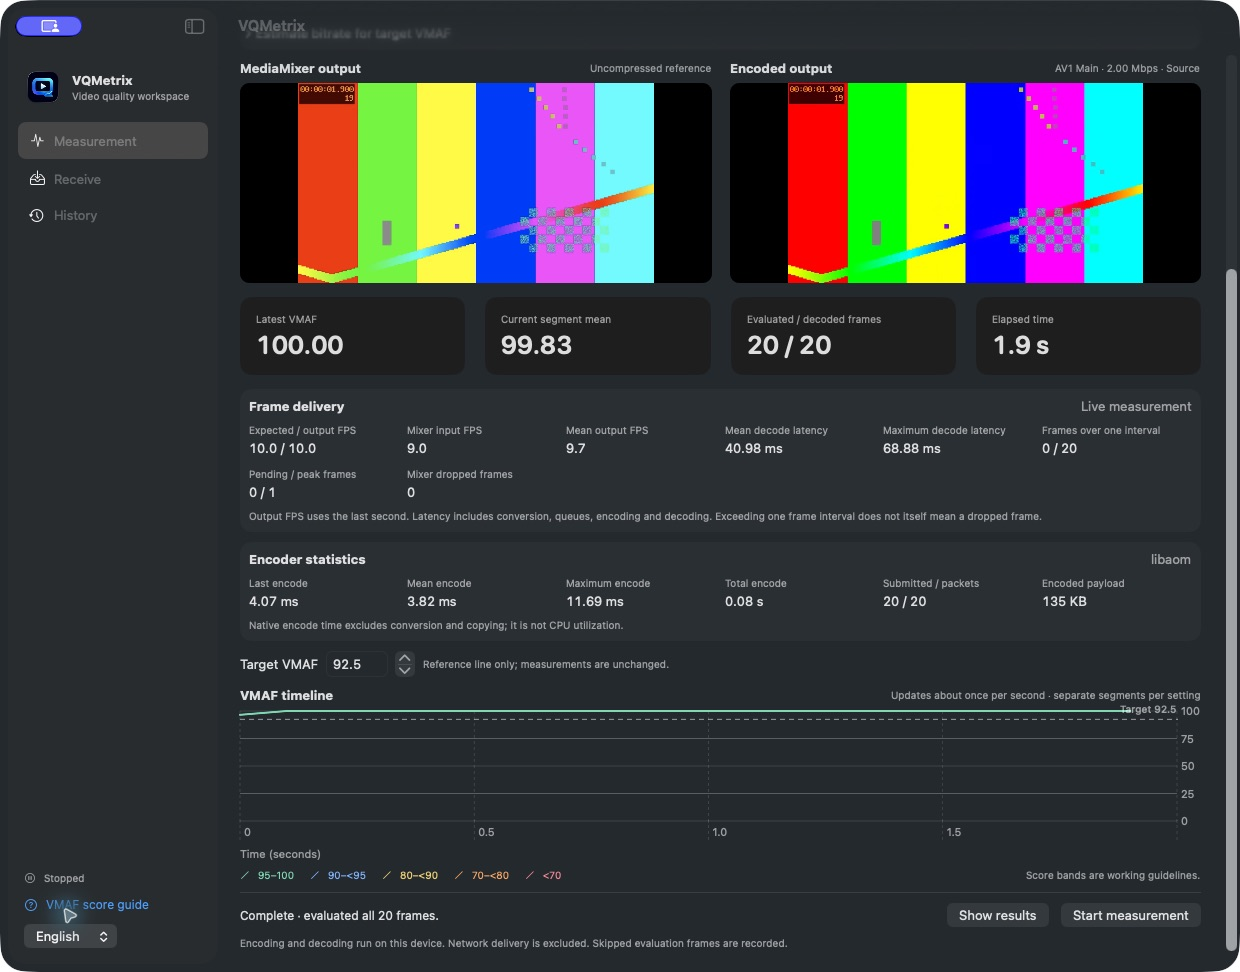
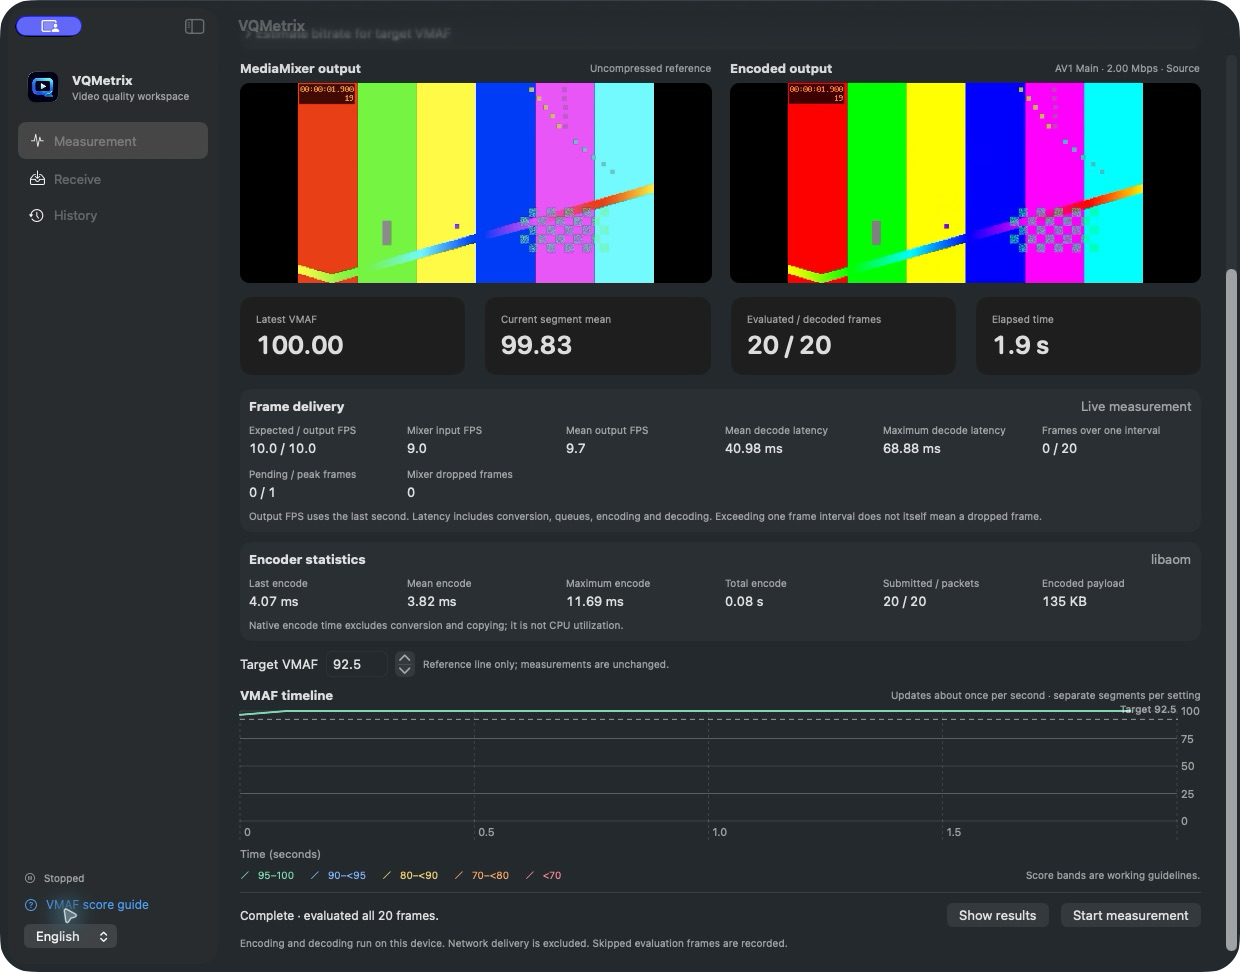
Restore screenshot corner transparency on dark backgrounds

diff --git a/docs/site/site.css b/docs/site/site.css
@@ -1,2 +1,2 @@
-:root{color-scheme:dark;--bg:#101318;--surface:#191e26;--text:#f5f7fa;--muted:#aeb9c7;--line:#303946;--accent:#75e3bd;--ink:#101b17;font-family:-apple-system,BlinkMacSystemFont,"Segoe UI",sans-serif;font-size:16px;line-height:1.65}*{box-sizing:border-box}body{margin:0;background:var(--bg);color:var(--text)}a{color:inherit;text-decoration:none}a:focus-visible{outline:3px solid var(--accent);outline-offset:5px}a:hover{color:var(--accent)}.wrap{width:min(1160px,calc(100% - 64px));margin-inline:auto}header{display:flex;justify-content:space-between;align-items:center;min-height:100px;gap:24px}.brand{display:flex;align-items:center;gap:12px;font-size:1.2rem;font-weight:700;letter-spacing:-.03em}.brand img{border-radius:9px}nav{display:flex;align-items:center;gap:26px;font-size:.9rem}nav a{display:inline-flex;align-items:center;min-height:44px}.hero{padding-top:70px;text-align:center}.eyebrow,.label{font:600 .78rem/1.5 ui-monospace,SFMono-Regular,monospace;letter-spacing:.14em;color:var(--accent)}h1{text-wrap:balance;font-size:clamp(2.6rem,5.7vw,4.8rem);line-height:1.12;letter-spacing:-.055em;margin:24px 0}h2{font-size:clamp(1.8rem,3vw,2.7rem);line-height:1.25;letter-spacing:-.04em;margin:14px 0 24px}h3{font-size:1.25rem;line-height:1.4;letter-spacing:-.025em;margin:16px 0 12px}p{color:var(--muted);margin:0 0 20px}.intro{font-size:1.15rem;max-width:680px;margin:0 auto 30px;line-height:1.8}.actions{display:flex;justify-content:center;gap:12px;flex-wrap:wrap}.button{padding:12px 24px;border:1px solid var(--line);border-radius:8px;min-height:48px;font-weight:600;transition:background .18s,color .18s}.button:hover{background:var(--surface);color:var(--text)}.primary{background:var(--accent);border-color:var(--accent);color:var(--ink)}.primary:hover{background:#9cecd0;color:var(--ink)}.requirements,.fine{font-size:.85rem;color:var(--muted)}.requirements{margin-top:20px}figure{margin:0}img{max-width:100%;height:auto}.app-shot{margin:60px 0 0}.app-shot img{display:block;border:1px solid var(--line);border-radius:14px;box-shadow:0 30px 80px #0005}figcaption{font-size:.8rem;color:var(--muted);padding-top:16px}.section{padding-block:96px;border-bottom:1px solid var(--line)}.section-heading{max-width:680px}.steps{display:grid;grid-template-columns:repeat(3,1fr);gap:44px;margin-top:48px}.steps article{border-top:2px solid var(--line);padding-top:26px}.steps p{margin:0}.transfer{display:grid;grid-template-columns:.85fr 1.15fr;gap:56px;align-items:center}.transfer figure img{display:block;border:1px solid var(--line);border-radius:10px}.text-link{display:inline-flex;min-height:44px;align-items:center;color:var(--accent);text-decoration:underline;text-underline-offset:5px}.learn{display:grid;grid-template-columns:1.2fr .8fr;gap:100px;align-items:center}.learn aside{border-left:2px solid var(--accent);padding-left:36px}.target{font:500 5rem/1.2 ui-monospace,monospace;letter-spacing:-.07em;color:var(--text);margin:12px 0}.target span{font-size:3rem;color:var(--accent)}.learn aside p:last-child{font-size:.95rem;margin:0}.resource-grid{display:grid;grid-template-columns:1fr 1fr;gap:24px;margin-top:40px}.resource-grid>a{display:block;padding:30px;background:var(--surface);border:1px solid var(--line);border-radius:10px;transition:border-color .18s}.resource-grid>a:hover{border-color:var(--accent);color:var(--text)}.resource-grid p{margin:0}pre{background:#0b0e12;padding:24px;border:1px solid var(--line);border-radius:8px;overflow-x:auto;font-size:.9rem;color:var(--accent);margin:24px 0 16px}footer{padding-block:48px;display:flex;flex-wrap:wrap;align-items:start;justify-content:space-between;gap:20px}footer p{font-size:.9rem;margin-top:8px}footer>.fine{width:100%;max-width:800px}footer nav{gap:22px}.skip{position:fixed;top:-100px;left:16px;background:var(--accent);color:var(--ink);padding:12px;z-index:10}.skip:focus{top:16px}@media(max-width:800px){.wrap{width:calc(100% - 40px)}header{flex-wrap:wrap;padding-block:20px;gap:8px;min-height:90px}nav{gap:18px;flex-wrap:wrap}.hero{padding-top:36px}.section{padding-block:64px}.steps{grid-template-columns:1fr;gap:28px}.transfer,.learn{grid-template-columns:1fr;gap:32px}.resource-grid{grid-template-columns:1fr}.learn aside{padding-left:24px}.app-shot{margin-top:40px}h1 br{display:none}footer{padding-block:32px}}@media(prefers-reduced-motion:reduce){*{transition:none!important;scroll-behavior:auto!important}}
+:root{color-scheme:dark;--bg:#101318;--surface:#191e26;--text:#f5f7fa;--muted:#aeb9c7;--line:#303946;--accent:#75e3bd;--ink:#101b17;font-family:-apple-system,BlinkMacSystemFont,"Segoe UI",sans-serif;font-size:16px;line-height:1.65}*{box-sizing:border-box}body{margin:0;background:var(--bg);color:var(--text)}a{color:inherit;text-decoration:none}a:focus-visible{outline:3px solid var(--accent);outline-offset:5px}a:hover{color:var(--accent)}.wrap{width:min(1160px,calc(100% - 64px));margin-inline:auto}header{display:flex;justify-content:space-between;align-items:center;min-height:100px;gap:24px}.brand{display:flex;align-items:center;gap:12px;font-size:1.2rem;font-weight:700;letter-spacing:-.03em}.brand img{border-radius:9px}nav{display:flex;align-items:center;gap:26px;font-size:.9rem}nav a{display:inline-flex;align-items:center;min-height:44px}.hero{padding-top:70px;text-align:center}.eyebrow,.label{font:600 .78rem/1.5 ui-monospace,SFMono-Regular,monospace;letter-spacing:.14em;color:var(--accent)}h1{text-wrap:balance;font-size:clamp(2.6rem,5.7vw,4.8rem);line-height:1.12;letter-spacing:-.055em;margin:24px 0}h2{font-size:clamp(1.8rem,3vw,2.7rem);line-height:1.25;letter-spacing:-.04em;margin:14px 0 24px}h3{font-size:1.25rem;line-height:1.4;letter-spacing:-.025em;margin:16px 0 12px}p{color:var(--muted);margin:0 0 20px}.intro{font-size:1.15rem;max-width:680px;margin:0 auto 30px;line-height:1.8}.actions{display:flex;justify-content:center;gap:12px;flex-wrap:wrap}.button{padding:12px 24px;border:1px solid var(--line);border-radius:8px;min-height:48px;font-weight:600;transition:background .18s,color .18s}.button:hover{background:var(--surface);color:var(--text)}.primary{background:var(--accent);border-color:var(--accent);color:var(--ink)}.primary:hover{background:#9cecd0;color:var(--ink)}.requirements,.fine{font-size:.85rem;color:var(--muted)}.requirements{margin-top:20px}figure{margin:0}img{max-width:100%;height:auto}.app-shot{margin:60px 0 0}.app-shot img{display:block;border:1px solid var(--line);border-radius:2.580645% / 3.292181%;background:transparent;box-shadow:0 30px 80px #0005}figcaption{font-size:.8rem;color:var(--muted);padding-top:16px}.section{padding-block:96px;border-bottom:1px solid var(--line)}.section-heading{max-width:680px}.steps{display:grid;grid-template-columns:repeat(3,1fr);gap:44px;margin-top:48px}.steps article{border-top:2px solid var(--line);padding-top:26px}.steps p{margin:0}.transfer{display:grid;grid-template-columns:.85fr 1.15fr;gap:56px;align-items:center}.transfer figure img{display:block;border:1px solid var(--line);border-radius:2.580645% / 3.292181%;background:transparent}.text-link{display:inline-flex;min-height:44px;align-items:center;color:var(--accent);text-decoration:underline;text-underline-offset:5px}.learn{display:grid;grid-template-columns:1.2fr .8fr;gap:100px;align-items:center}.learn aside{border-left:2px solid var(--accent);padding-left:36px}.target{font:500 5rem/1.2 ui-monospace,monospace;letter-spacing:-.07em;color:var(--text);margin:12px 0}.target span{font-size:3rem;color:var(--accent)}.learn aside p:last-child{font-size:.95rem;margin:0}.resource-grid{display:grid;grid-template-columns:1fr 1fr;gap:24px;margin-top:40px}.resource-grid>a{display:block;padding:30px;background:var(--surface);border:1px solid var(--line);border-radius:10px;transition:border-color .18s}.resource-grid>a:hover{border-color:var(--accent);color:var(--text)}.resource-grid p{margin:0}pre{background:#0b0e12;padding:24px;border:1px solid var(--line);border-radius:8px;overflow-x:auto;font-size:.9rem;color:var(--accent);margin:24px 0 16px}footer{padding-block:48px;display:flex;flex-wrap:wrap;align-items:start;justify-content:space-between;gap:20px}footer p{font-size:.9rem;margin-top:8px}footer>.fine{width:100%;max-width:800px}footer nav{gap:22px}.skip{position:fixed;top:-100px;left:16px;background:var(--accent);color:var(--ink);padding:12px;z-index:10}.skip:focus{top:16px}@media(max-width:800px){.wrap{width:calc(100% - 40px)}header{flex-wrap:wrap;padding-block:20px;gap:8px;min-height:90px}nav{gap:18px;flex-wrap:wrap}.hero{padding-top:36px}.section{padding-block:64px}.steps{grid-template-columns:1fr;gap:28px}.transfer,.learn{grid-template-columns:1fr;gap:32px}.resource-grid{grid-template-columns:1fr}.learn aside{padding-left:24px}.app-shot{margin-top:40px}h1 br{display:none}footer{padding-block:32px}}@media(prefers-reduced-motion:reduce){*{transition:none!important;scroll-behavior:auto!important}}
 summary{cursor:pointer;font-size:1.2rem;font-weight:600;min-height:44px;padding:8px 0}summary:focus-visible{outline:3px solid var(--accent);outline-offset:5px}details[open] summary{margin-bottom:20px}details li{color:var(--muted);margin:12px 0}#first-launch{padding-block:36px;scroll-margin-top:24px}
